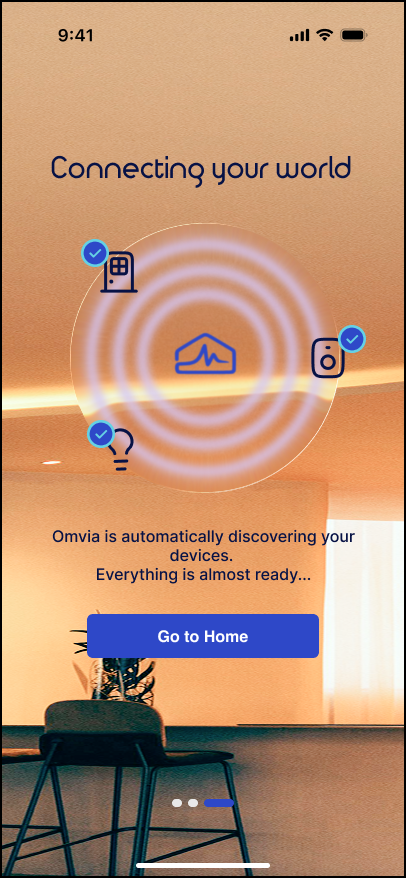
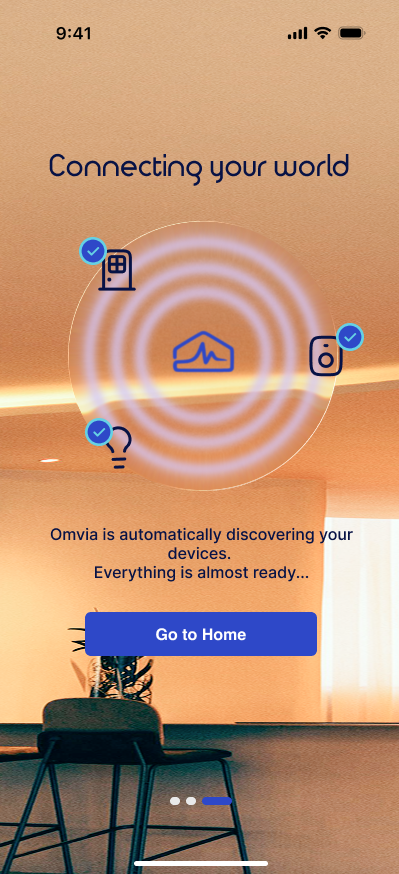
omvia prototype link updated

diff --git a/src/styles/projects/omvia.css b/src/styles/projects/omvia.css
@@ -408,9 +408,13 @@
 }
 
 .screen-flow--two .screen-flow__item--1 img {
-  aspect-ratio: auto;
+  width: auto;
+  max-width: 100%;
   height: auto;
-  max-height: clamp(30rem, 36vw, 28rem);
+  max-height: 30rem;
+  aspect-ratio: auto;
+  border: 0;
+  background: transparent;
 }
 
 .screen-flow--two .screen-flow__item--2 img {
